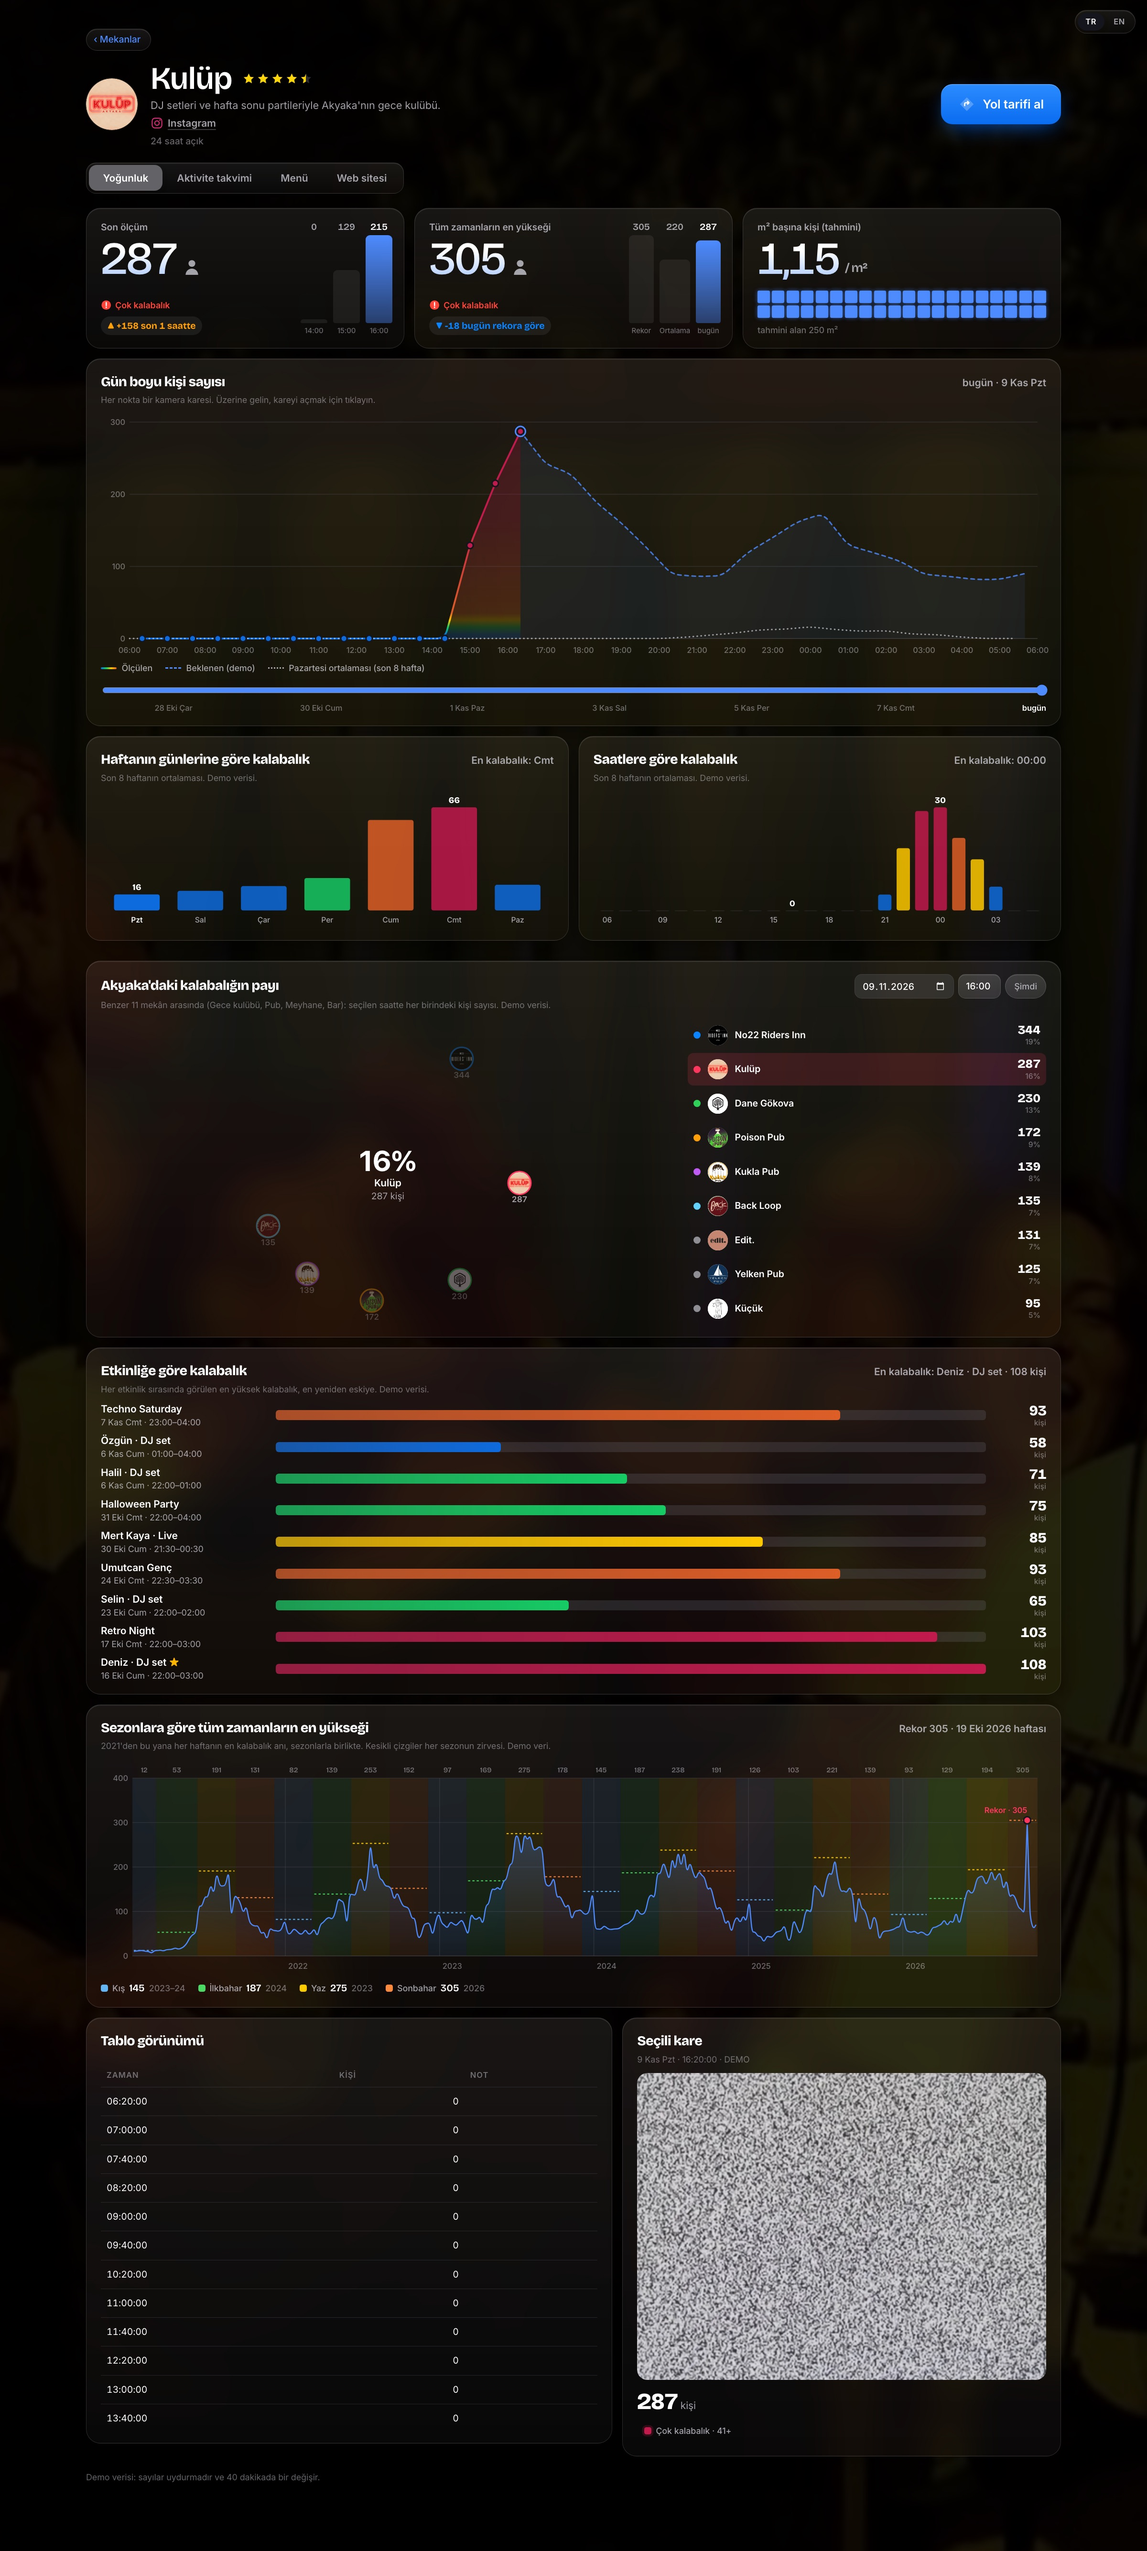
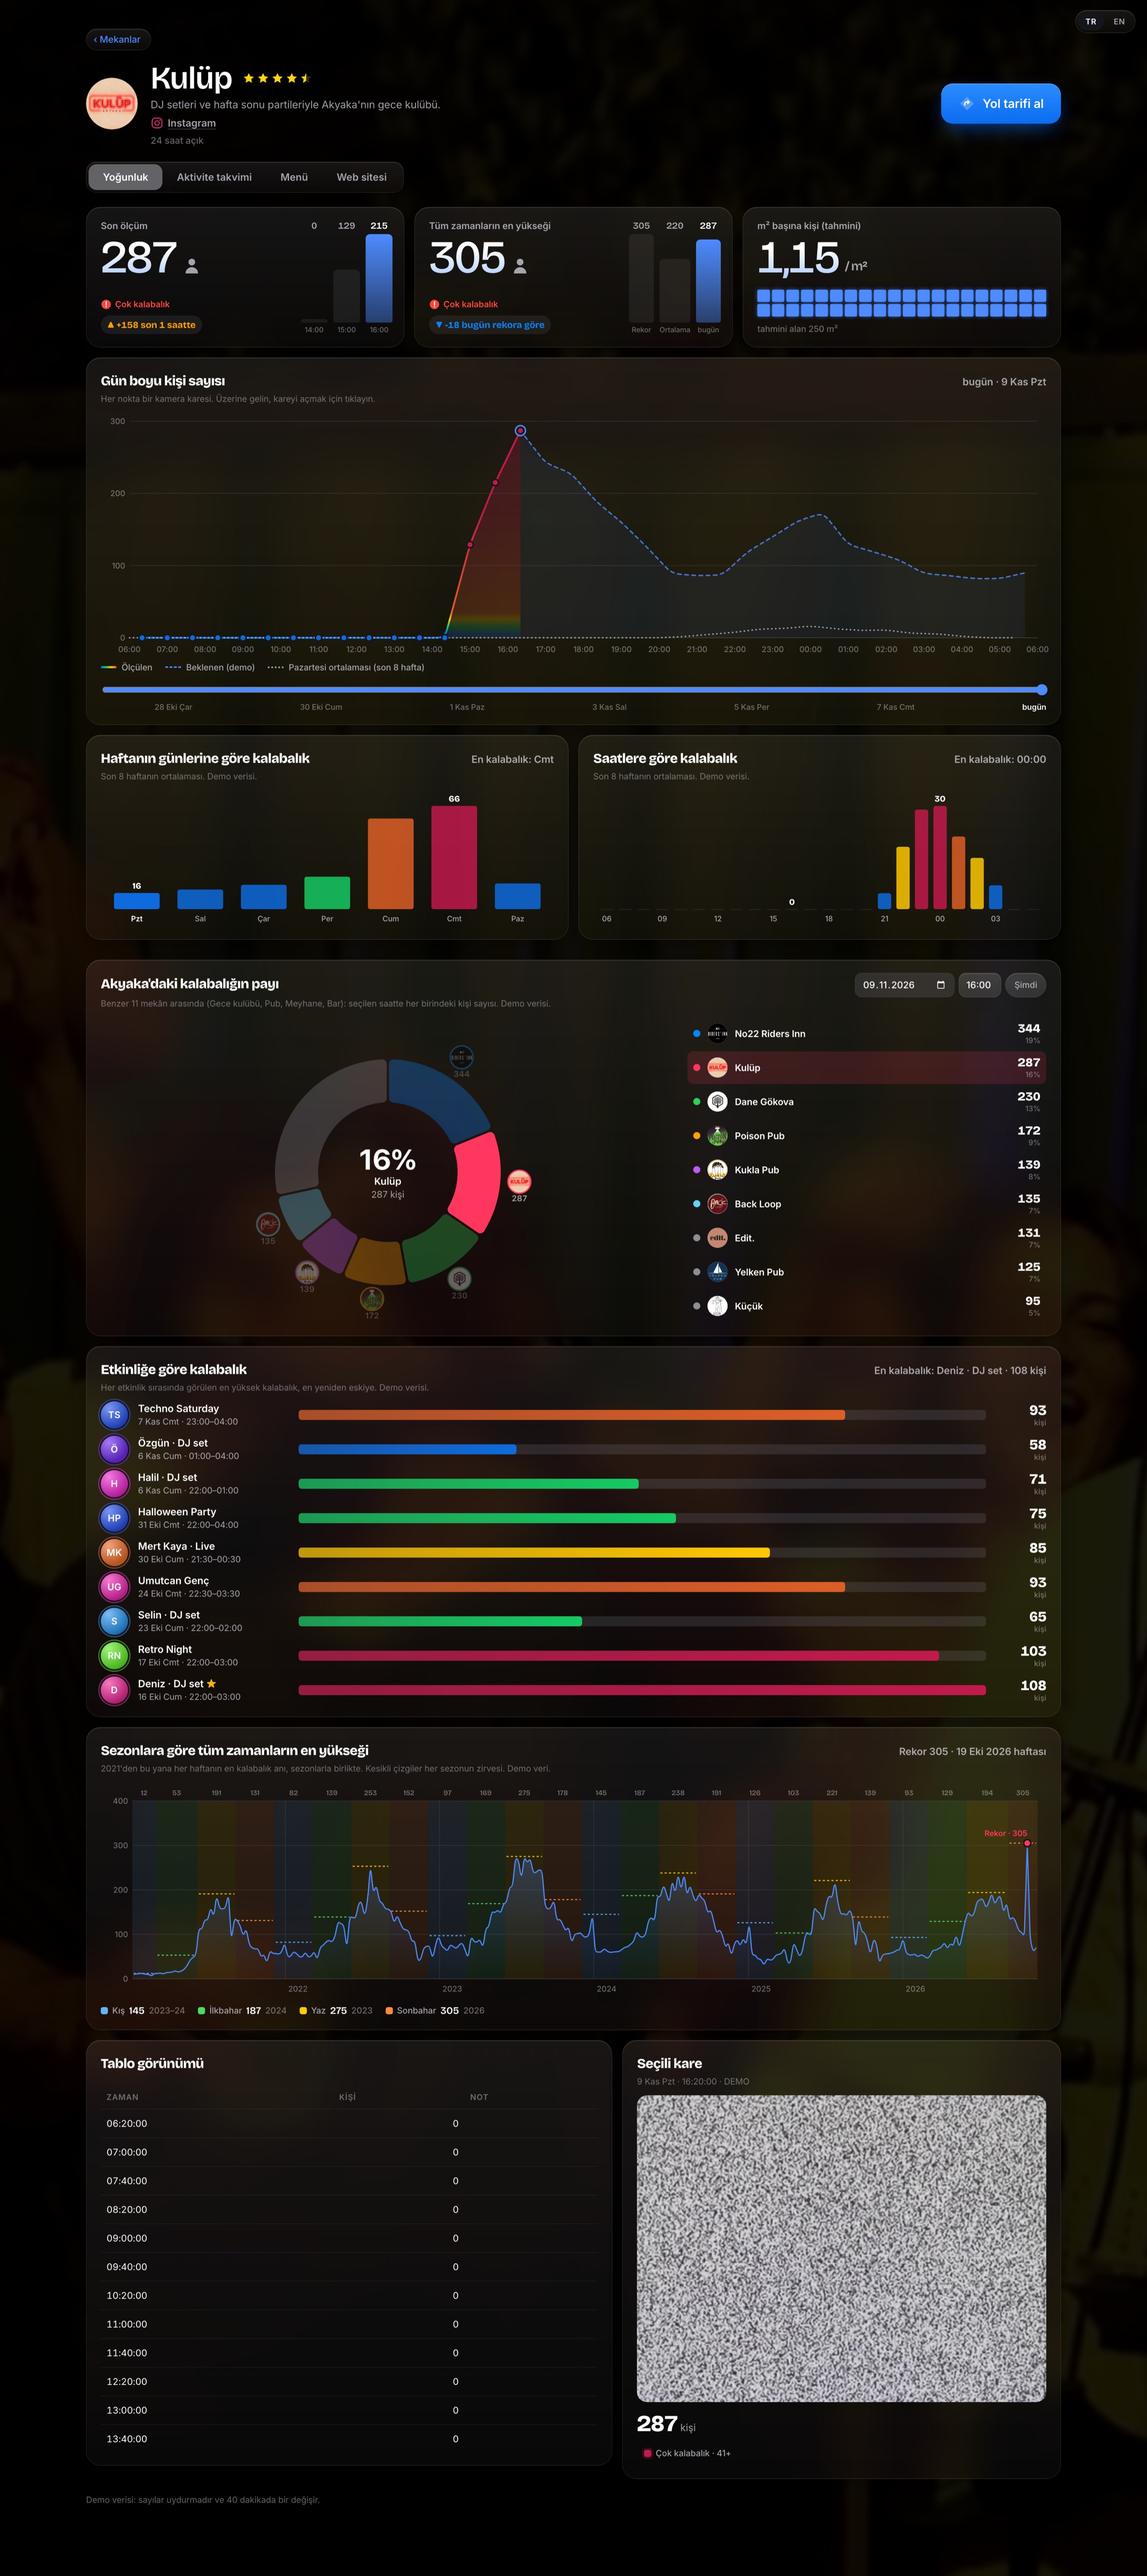
Update demo from venue-occupancy-mvp (f5f88bd)

diff --git a/presentation-template/index.html b/presentation-template/index.html
@@ -8,7 +8,7 @@
 <link rel="preconnect" href="https://fonts.googleapis.com">
 <link rel="preconnect" href="https://fonts.gstatic.com" crossorigin>
 <link href="https://fonts.googleapis.com/css2?family=Bricolage+Grotesque:opsz,wght@12..96,500..800&family=Inter:wght@400;500;600&display=swap" rel="stylesheet">
-<link rel="stylesheet" href="deck.css?v=19">
+<link rel="stylesheet" href="deck.css?v=20">
 </head>
 <body>
 
@@ -264,7 +264,7 @@
         </div>
       </div>
       <div class="imac imac--low" aria-hidden="true">
-        <div class="imac-screen"><img data-shared="screen" src="assets/panel-kulup-full.jpg?v=2" alt="" width="2400" height="5337" decoding="async"></div>
+        <div class="imac-screen"><img data-shared="screen" src="assets/panel-kulup-full.jpg?v=3" alt="" width="2400" height="5390" decoding="async"></div>
         <div class="imac-chin"></div>
         <div class="imac-neck"></div>
         <div class="imac-foot"></div>
@@ -275,7 +275,7 @@
          inside it (data-scroll), and the deck moves on only once the page is at its end. -->
     <section class="slide slide--fullpage" data-flow="imac" aria-roledescription="slide" aria-label="Panel ekranı: Kulüp">
       <div class="page-scroll" data-scroll data-shared="screen" tabindex="-1">
-        <img src="assets/panel-kulup-full.jpg?v=2" alt="Kulüp işletme detay sayfası: anlık ziyaretçi sayısı, rekor, m² başına yoğunluk, gün içi grafik, haftanın günleri ve saatlere göre kalabalık, Akyaka içindeki pay, etkinliğe ve sezona göre kalabalık" width="2400" height="5337" decoding="async">
+        <img src="assets/panel-kulup-full.jpg?v=3" alt="Kulüp işletme detay sayfası: anlık ziyaretçi sayısı, rekor, m² başına yoğunluk, gün içi grafik, haftanın günleri ve saatlere göre kalabalık, Akyaka içindeki pay, etkinliğe ve sezona göre kalabalık" width="2400" height="5390" decoding="async">
       </div>
       <div class="scroll-hint" aria-hidden="true">
         <svg viewBox="0 0 24 24" width="22" height="22" fill="none" stroke="currentColor" stroke-width="2.2" stroke-linecap="round" stroke-linejoin="round"><path d="M6 9l6 6 6-6"/></svg>
@@ -336,7 +336,81 @@
       </div>
     </section>
 
-    <!-- 13 · Empty slide to duplicate -->
+    <!-- 13 · Panel component: Gün boyu kişi sayısı -->
+    <section class="slide slide--comp" aria-roledescription="slide" aria-label="Gün boyu kişi sayısı">
+      <div class="heat" aria-hidden="true"><i class="h1"></i><i class="h2"></i></div>
+      <p class="eyebrow metrics-eyebrow"><span class="live-dot"></span>Panel</p>
+      <div class="comp-explain">
+        <h3>Gün boyu kişi sayısı</h3>
+        <p>Kameranın her karesi grafikte bir nokta. Ölçülen çizgi kalabalığın gün içinde nasıl arttığını gösterir; kesikli çizgi gecenin geri kalanı için beklenen kalabalığı, noktalı çizgi son 8 haftanın aynı gününün ortalamasını verir. Alttaki kaydırıcıyla geçmiş günlere dönülür.</p>
+      </div>
+      <figure class="comp-card reveal-x">
+        <img src="assets/cmp-day.jpg?v=2" alt="Gün boyu kişi sayısı" width="2724" height="1030" decoding="async">
+        <span class="live-ping" style="left:44.56%;top:20.1%" aria-hidden="true"></span>
+      </figure>
+    </section>
+
+    <!-- 14 · Panel components: week days and hours -->
+    <section class="slide slide--comp slide--comp-pair" aria-roledescription="slide" aria-label="Haftanın günlerine ve saatlere göre kalabalık">
+      <div class="heat" aria-hidden="true"><i class="h1"></i><i class="h2"></i></div>
+      <p class="eyebrow metrics-eyebrow"><span class="live-dot"></span>Panel</p>
+      <div class="comp-explain">
+        <h3>Haftanın günlerine göre kalabalık</h3>
+        <p>Son 8 haftanın ortalamasıyla hangi günlerin dolu, hangilerinin boş geçtiği. Personel, stok ve etkinlik planı bu dağılıma göre yapılabilir.</p>
+      </div>
+      <figure class="comp-card reveal-y">
+        <img src="assets/cmp-week.jpg?v=2" alt="Haftanın günlerine göre kalabalık" width="1350" height="576" decoding="async">
+      </figure>
+      <div class="comp-explain">
+        <h3>Saatlere göre kalabalık</h3>
+        <p>Kalabalığın günün hangi saatinde zirve yaptığı. Açılış saatleri, happy hour ve duyurular için doğru zamanı gösterir.</p>
+      </div>
+      <figure class="comp-card reveal-y">
+        <img src="assets/cmp-hours.jpg?v=2" alt="Saatlere göre kalabalık" width="1350" height="576" decoding="async">
+      </figure>
+    </section>
+
+    <!-- 15 · Panel component: Akyaka'daki kalabalığın payı -->
+    <section class="slide slide--comp" aria-roledescription="slide" aria-label="Akyaka'daki kalabalığın payı">
+      <div class="heat" aria-hidden="true"><i class="h1"></i><i class="h2"></i></div>
+      <p class="eyebrow metrics-eyebrow"><span class="live-dot"></span>Panel</p>
+      <div class="comp-explain">
+        <h3>Akyaka'daki kalabalığın payı</h3>
+        <p>Benzer mekanlar arasında, seçilen saatte kalabalığın ne kadarının sizde olduğu. Rakiplere göre konumunuzu şu an için ya da geçmiş herhangi bir saat için karşılaştırın.</p>
+      </div>
+      <figure class="comp-card reveal-o">
+        <img src="assets/cmp-share.jpg?v=2" alt="Akyaka'daki kalabalığın payı" width="2724" height="1054" decoding="async">
+      </figure>
+    </section>
+
+    <!-- 16 · Panel component: Etkinliğe göre kalabalık -->
+    <section class="slide slide--comp" aria-roledescription="slide" aria-label="Etkinliğe göre kalabalık">
+      <div class="heat" aria-hidden="true"><i class="h1"></i><i class="h2"></i></div>
+      <p class="eyebrow metrics-eyebrow"><span class="live-dot"></span>Panel</p>
+      <div class="comp-explain">
+        <h3>Etkinliğe göre kalabalık</h3>
+        <p>Her etkinlikte görülen en yüksek kalabalık, en yeniden eskiye. Hangi DJ, sanatçı ya da konseptin daha çok kişi çektiği ve hangi etkinliğin maliyetini karşılamadığı net görülür.</p>
+      </div>
+      <figure class="comp-card reveal-x">
+        <img src="assets/cmp-events.jpg?v=2" alt="Etkinliğe göre kalabalık" width="2724" height="1040" decoding="async">
+      </figure>
+    </section>
+
+    <!-- 17 · Panel component: Sezonlara göre tüm zamanların en yükseği -->
+    <section class="slide slide--comp" aria-roledescription="slide" aria-label="Sezonlara göre tüm zamanların en yükseği">
+      <div class="heat" aria-hidden="true"><i class="h1"></i><i class="h2"></i></div>
+      <p class="eyebrow metrics-eyebrow"><span class="live-dot"></span>Panel</p>
+      <div class="comp-explain">
+        <h3>Sezonlara göre tüm zamanların en yükseği</h3>
+        <p>2021'den bu yana her haftanın zirvesi, sezonlarla birlikte. Sezonların birbirine göre performansı ve rekorun ne zaman kırıldığı uzun vadeli planlamaya ışık tutar.</p>
+      </div>
+      <figure class="comp-card reveal-x">
+        <img src="assets/cmp-seasons.jpg?v=2" alt="Sezonlara göre tüm zamanların en yükseği" width="2724" height="850" decoding="async">
+        <span class="live-ping live-ping--record" style="left:96.54%;top:38.3%" aria-hidden="true"></span>
+      </figure>
+    </section>
+
+    <!-- 18 · Empty slide to duplicate -->
     <section class="slide slide--blank" aria-roledescription="slide" aria-label="Boş slayt">
       <header class="slide-head">
         <p class="eyebrow">Bölüm</p>

diff --git a/presentation-template/deck.css b/presentation-template/deck.css
@@ -664,3 +664,50 @@ body {
 .m2grid i { border-radius: 3px; }
 .m2grid i.on { box-shadow: 0 0 8px rgba(77, 139, 255, .45); }
 .mfoot { font-size: 17px; }
+
+/* ---------- 13–17 · Panel components (cropped from the app, revealed as if being drawn) ---------- */
+.slide--comp {
+  display: grid; grid-template-columns: 470px minmax(0, 1fr);
+  column-gap: 90px; align-items: center;
+  padding: 150px 130px 110px 180px;
+  overflow: hidden;
+}
+.slide--comp .metrics-eyebrow { left: 180px; top: 84px; }
+.slide--comp .heat .h1 { width: 1000px; height: 900px; right: -220px; top: 60px; background: var(--calm); opacity: .26; }
+.slide--comp .heat .h2 { width: 560px; height: 560px; left: -180px; right: auto; bottom: -220px; top: auto; background: var(--full); opacity: .14; }
+.comp-explain { position: relative; z-index: 1; display: flex; flex-direction: column; gap: 14px; }
+.comp-explain h3 { margin: 0; font: 800 42px/1.05 var(--font-display); letter-spacing: -0.03em; color: var(--ink); text-wrap: balance; }
+.comp-explain p { margin: 0; font: 400 22px/1.5 var(--font-text); color: var(--ink-2); text-wrap: pretty; }
+.comp-card {
+  position: relative; z-index: 1; margin: 0;
+  border-radius: 26px; overflow: hidden;
+  box-shadow: 0 0 0 1px rgba(255,255,255,.08), 0 40px 80px -30px rgba(0,0,0,.9);
+  background: #141217;
+}
+.comp-card img { display: block; width: 100%; height: auto; }
+
+/* week + hours: two rows, narrower cards */
+.slide--comp-pair { grid-template-rows: 1fr 1fr; row-gap: 40px; }
+.slide--comp-pair .comp-card { width: 820px; justify-self: end; }
+
+/* entrance: card slides in, then its contents are drawn */
+.slide--comp.is-active .comp-card { animation: cardIn .9s var(--ease) both; }
+.slide--comp.is-active .comp-explain { animation: rise .9s var(--ease) .15s both; }
+.slide--comp-pair.is-active > :nth-child(5) { animation-delay: .25s; }
+.slide--comp-pair.is-active > :nth-child(6) { animation-delay: .15s; }
+.slide--comp.is-active .reveal-x img { animation: revealX 1.8s cubic-bezier(.45,0,.2,1) .45s both; }
+.slide--comp.is-active .reveal-y img { animation: revealY 1.3s cubic-bezier(.45,0,.2,1) .45s both; }
+.slide--comp-pair.is-active > :nth-child(6) img { animation-delay: .75s; }
+.slide--comp.is-active .reveal-o img { animation: revealO 1.6s cubic-bezier(.45,0,.2,1) .45s both; }
+@keyframes revealX { from { clip-path: inset(0 100% 0 0); } to { clip-path: inset(0 0 0 0); } }
+@keyframes revealY { from { clip-path: inset(100% 0 0 0); } to { clip-path: inset(0 0 0 0); } }
+@keyframes revealO { from { clip-path: circle(0% at 30% 55%); } to { clip-path: circle(150% at 30% 55%); } }
+
+/* live point: a ring that keeps pinging on the latest reading / the record */
+.live-ping {
+  position: absolute; width: 22px; height: 22px; margin: -11px 0 0 -11px; border-radius: 50%;
+  border: 3px solid #4D8BFF; opacity: 0;
+}
+.slide--comp.is-active .live-ping { animation: ping2 1.8s ease-out 2.2s infinite; }
+.live-ping--record { border-color: #FF2D6F; }
+@keyframes ping2 { 0% { opacity: .95; transform: scale(.8); } 100% { opacity: 0; transform: scale(3.2); } }
